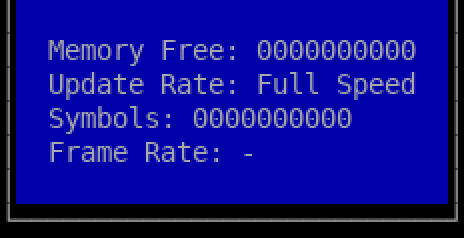
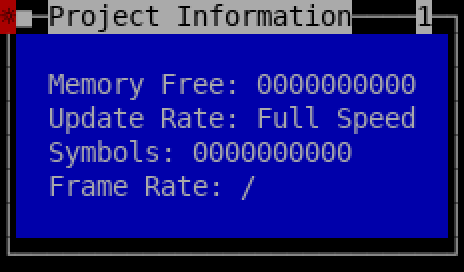
fix(screenshots): correct window crop, source/textview captures, and name refs
render_ansi.py: restrict box-drawing scan to cells not on DESKTOP_BG (blue)
— this excludes the "1991─1994" status-bar text (sits on blue) and expands
the scan to row 0 so top borders (e.g. Project Info) are captured.

Taskfile: use paste-buffer to send raw ESC+letter instead of tmux M-x
notation, which tmux intercepts for its own bindings — source (M-l) and
textview (M-t) were both capturing the Command window instead; fixed.
Fix >- YAML folded scalar splitting the python3 invocation across two shell
lines; use | (literal block) so the render loop is a single command.

Manual: update source/textview img widths (600→480, now correctly cropped).
Docs: "DR Monitor" → "Developer Resources Monitor" in README/install/BUGS.

diff --git a/devsys/tools/drmon/linux/render_ansi.py b/devsys/tools/drmon/linux/render_ansi.py
@@ -112,12 +112,14 @@ def render(ansi_file, out_file, scale=2):
               for r in rows]
 
     # --- crop to the bounding box of box-drawing border characters ---
-    # Box-drawing chars (U+2500–U+257F) mark the exact window extent; everything
-    # outside them is desktop or drop-shadow and should be excluded.
+    # Box-drawing chars (U+2500–U+257F) on non-desktop background mark the exact
+    # window extent. The DESKTOP_BG guard excludes the status bar "1991─1994" (its
+    # ─ sits on blue) and the menu bar. Scanning from row 0 captures top borders.
     r1 = r2 = c1 = c2 = None
-    for ri in range(1, len(padded) - 1):
+    for ri in range(len(padded)):
         for ci in range(n_cols):
-            if _is_box(padded[ri][ci][0]):
+            ch, fg, bg = padded[ri][ci]
+            if _is_box(ch) and bg != DESKTOP_BG:
                 if r1 is None:
                     r1 = ri
                 r2 = ri

diff --git a/docs/BUGS.md b/docs/BUGS.md
@@ -1,6 +1,6 @@
 # BUGS
 
-Genuine bugs that lay dormant for years before something surfaced them — here, mostly the act of bringing the early-1990s DR Monitor (`drmon`) source to Linux. Not TODOs, not feature gaps: bugs that shipped in the DOS product because they *worked anyway*, were masked by a dead path, were never exercised, or were purely cosmetic and nobody bothered.
+Genuine bugs that lay dormant for years before something surfaced them — here, mostly the act of bringing the early-1990s Developer Resources Monitor (`drmon`) source to Linux. Not TODOs, not feature gaps: bugs that shipped in the DOS product because they *worked anyway*, were masked by a dead path, were never exercised, or were purely cosmetic and nobody bothered.
 
 **Eligibility:** Only bugs whose buggy code was **authored before 2026-01-01** belong here. drmon's source entered version control via the SourceForge CVS import [`c835c3b`](https://github.com/developer-resources-co/drdevtools/commit/c835c3b) (2003-08-15); the code itself is ~1993–1994 vintage (drmon 2.1.30, 1994; many files carry `kts` date markers like `06-15-93`). Anything written in 2026+ as part of the Linux port is fresh-author error, not a dormant bug, and does not qualify. Verify origin with `git log --diff-filter=A -- <file>` / `git blame` before adding an entry.
 

diff --git a/README.md b/README.md
@@ -25,6 +25,21 @@ Background on the company and its tools: [Kevin Seghetti interview (Sega-16)](ht
 | `runtime/` | On-console runtime libraries and sample games (Genesis/SNES) |
 | `libs/` | Shared host libraries (e.g. `pclib`) |
 
+## Current Status — drmon Linux Port (Phase 1.5)
+
+`drmon` builds and runs on Linux (x86-64) for `SYSTEM=SNES`, rendering its full
+text UI via an ncurses front end. See [devsys/tools/drmon/linux/README.md](devsys/tools/drmon/linux/README.md)
+for build instructions and the full port notes.
+
+**Known limitations (by design, this phase)**
+
+- Runs **disconnected** — no target yet (dev-link transport stubbed); a real target
+  arrives via the Phase 2 MAME bridge.
+- Keyboard covers letters/arrows/F-keys/Enter/Esc and **Alt-combos** (alt-Q close,
+  alt-X exit, alt-M/alt-R/… open windows). **Mouse** isn't wired yet.
+- Genesis (`SYSTEM=GEN`) not built yet (SNES first).
+- Fixed 80×25; terminal must be at least that size.
+
 ## License
 
 Per the [SourceForge project](https://sourceforge.net/projects/drdevtools/) metadata, the

diff --git a/devsys/tools/drmon/docs/drmon-manual.md b/devsys/tools/drmon/docs/drmon-manual.md
@@ -137,7 +137,7 @@ keyboard macros, with scripting (`.scr`). **↑/↓** walk the command history.
 Source-level debugging: load a `.sld` file (`Ctrl+L`) to view the source the code was assembled
 from and set breakpoints by line.
 
-<img src="img/source.png" width="600">
+<img src="img/source.png" width="480">
 
 | Key | Action |
 |-----|--------|
@@ -152,7 +152,7 @@ from and set breakpoints by line.
 ### Text View — `Alt+T`
 A generic text-file viewer. Arrows move the cursor; PgUp/PgDn page.
 
-<img src="img/textview.png" width="600">
+<img src="img/textview.png" width="480">
 
 | Key | Action |
 |-----|--------|

diff --git a/devsys/tools/drmon/docs/install.md b/devsys/tools/drmon/docs/install.md
@@ -1,6 +1,6 @@
 # Installing drmon (Linux)
 
-drmon is the **DR Monitor** — a source-level debugger/monitor for the SNES (65816) and
+drmon is the **Developer Resources Monitor** — a source-level debugger/monitor for the SNES (65816) and
 Genesis (68000), originally a 1990s DOS product, now ported to Linux/ncurses. This page
 covers building and launching it. For day-to-day use see the [User Manual](drmon-manual.md);
 for tuning see [Configuration](configuration.md).
